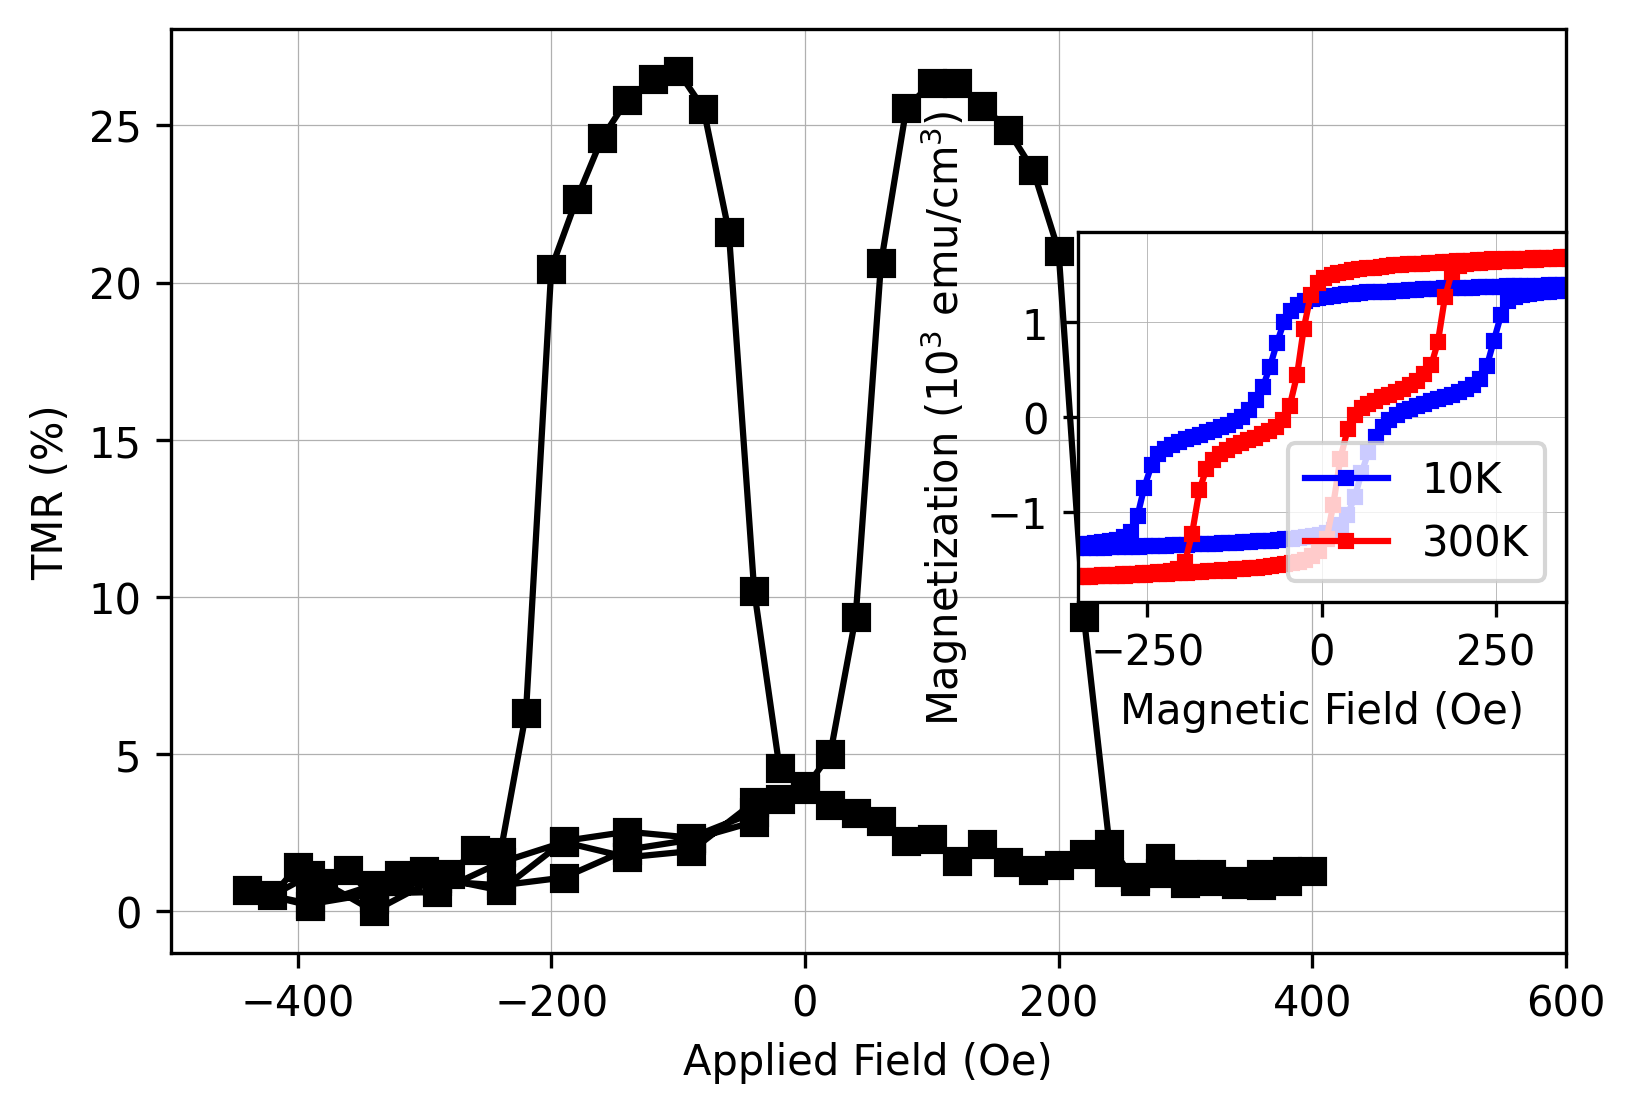
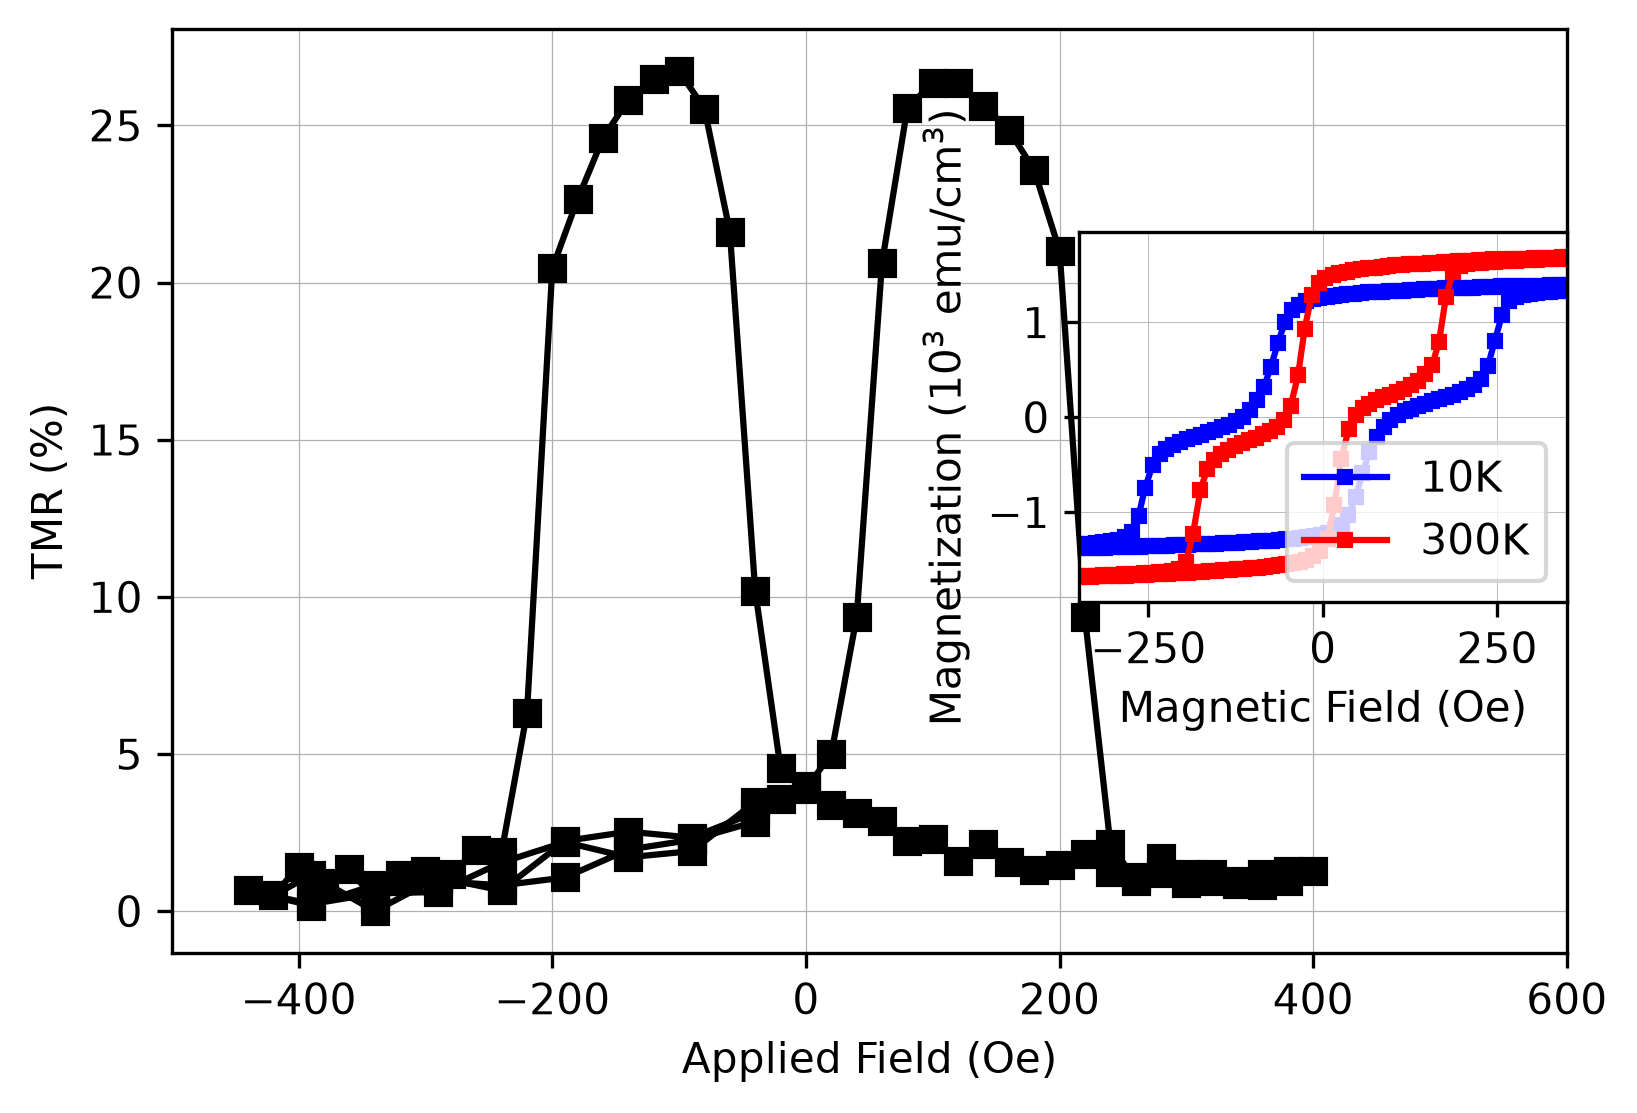
Add gmm peak analysis

diff --git a/CFB_hysteresis_boundary.py b/CFB_hysteresis_boundary.py
@@ -1,0 +1,49 @@
+import numpy as np
+import matplotlib.pyplot as plt
+import pandas as pd
+from sklearn.mixture import GaussianMixture
+
+'''
+Installation Requirement:
+pip install scikit-learn
+
+'''
+
+sample_volume = 1.334e-7
+
+CFB_hysteresis_data_path = "CFB_hysteresis.txt"
+
+def read_csv_to_json(csv_file_path):
+    df = pd.read_csv(csv_file_path, sep='\t', keep_default_na=False)      # keep_default_na = True: return NaN if empty; keep_default_na = False: return '' if empty
+    return df.to_dict(orient='records')
+
+def get_gmm_peaks(x_values: np.ndarray, num_of_peaks: int = 2, random_state: int = 42):
+    """
+    Generate the position of the two peaks
+
+    Args:
+        x_values (np.ndarray): An 1D numpy array of x values
+        num_of_peaks (int): Num of peaks of the Gaussian mixture
+        random_state (int): The seed for initial random guess
+
+    Returns:
+        np.ndarray: An array of peaks
+    """
+
+    x_column = x_values.reshape(-1, 1)
+    gmm = GaussianMixture(n_components=num_of_peaks, random_state=random_state)
+    gmm.fit(x_column)
+
+    return gmm.means_.flatten()
+
+def draw_CFB_hysteresis():
+    CFB_hysteresis_data = read_csv_to_json(CFB_hysteresis_data_path)
+
+    magnetic_field = np.array([d["Magnetic Field (Oe)"] for d in CFB_hysteresis_data])
+    magnetization = np.array([d["Moment (emu)"] for d in CFB_hysteresis_data]) / sample_volume
+
+    print(get_gmm_peaks(magnetization))
+
+if __name__ == "__main__":
+
+    draw_CFB_hysteresis()
